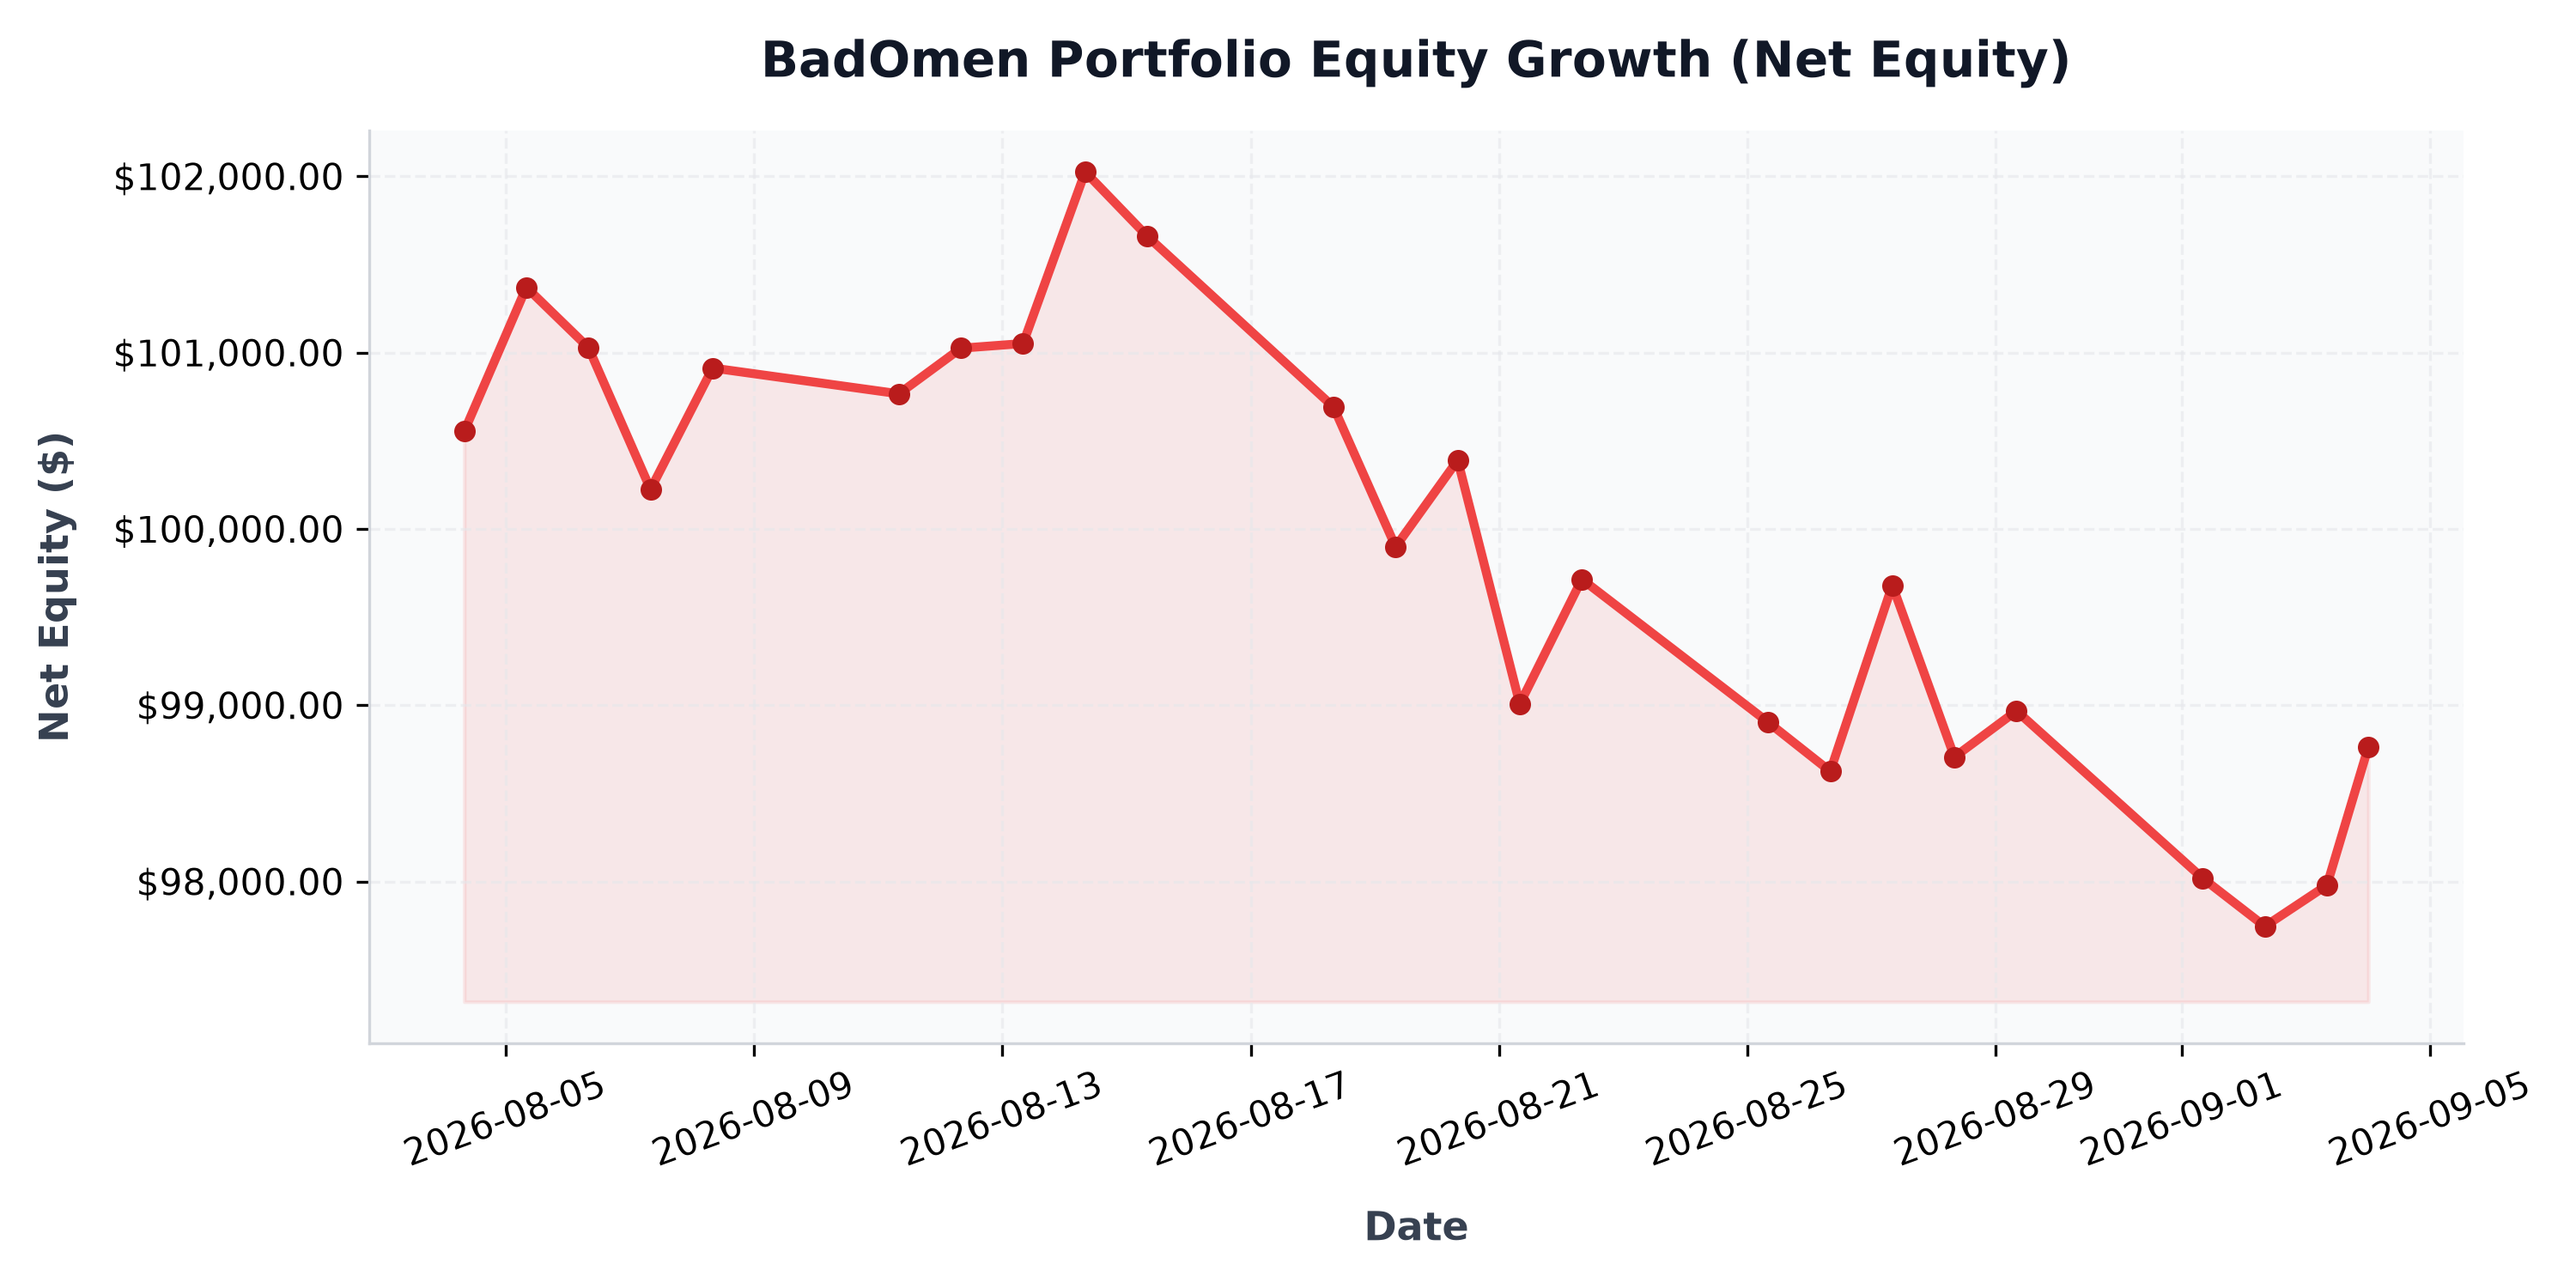
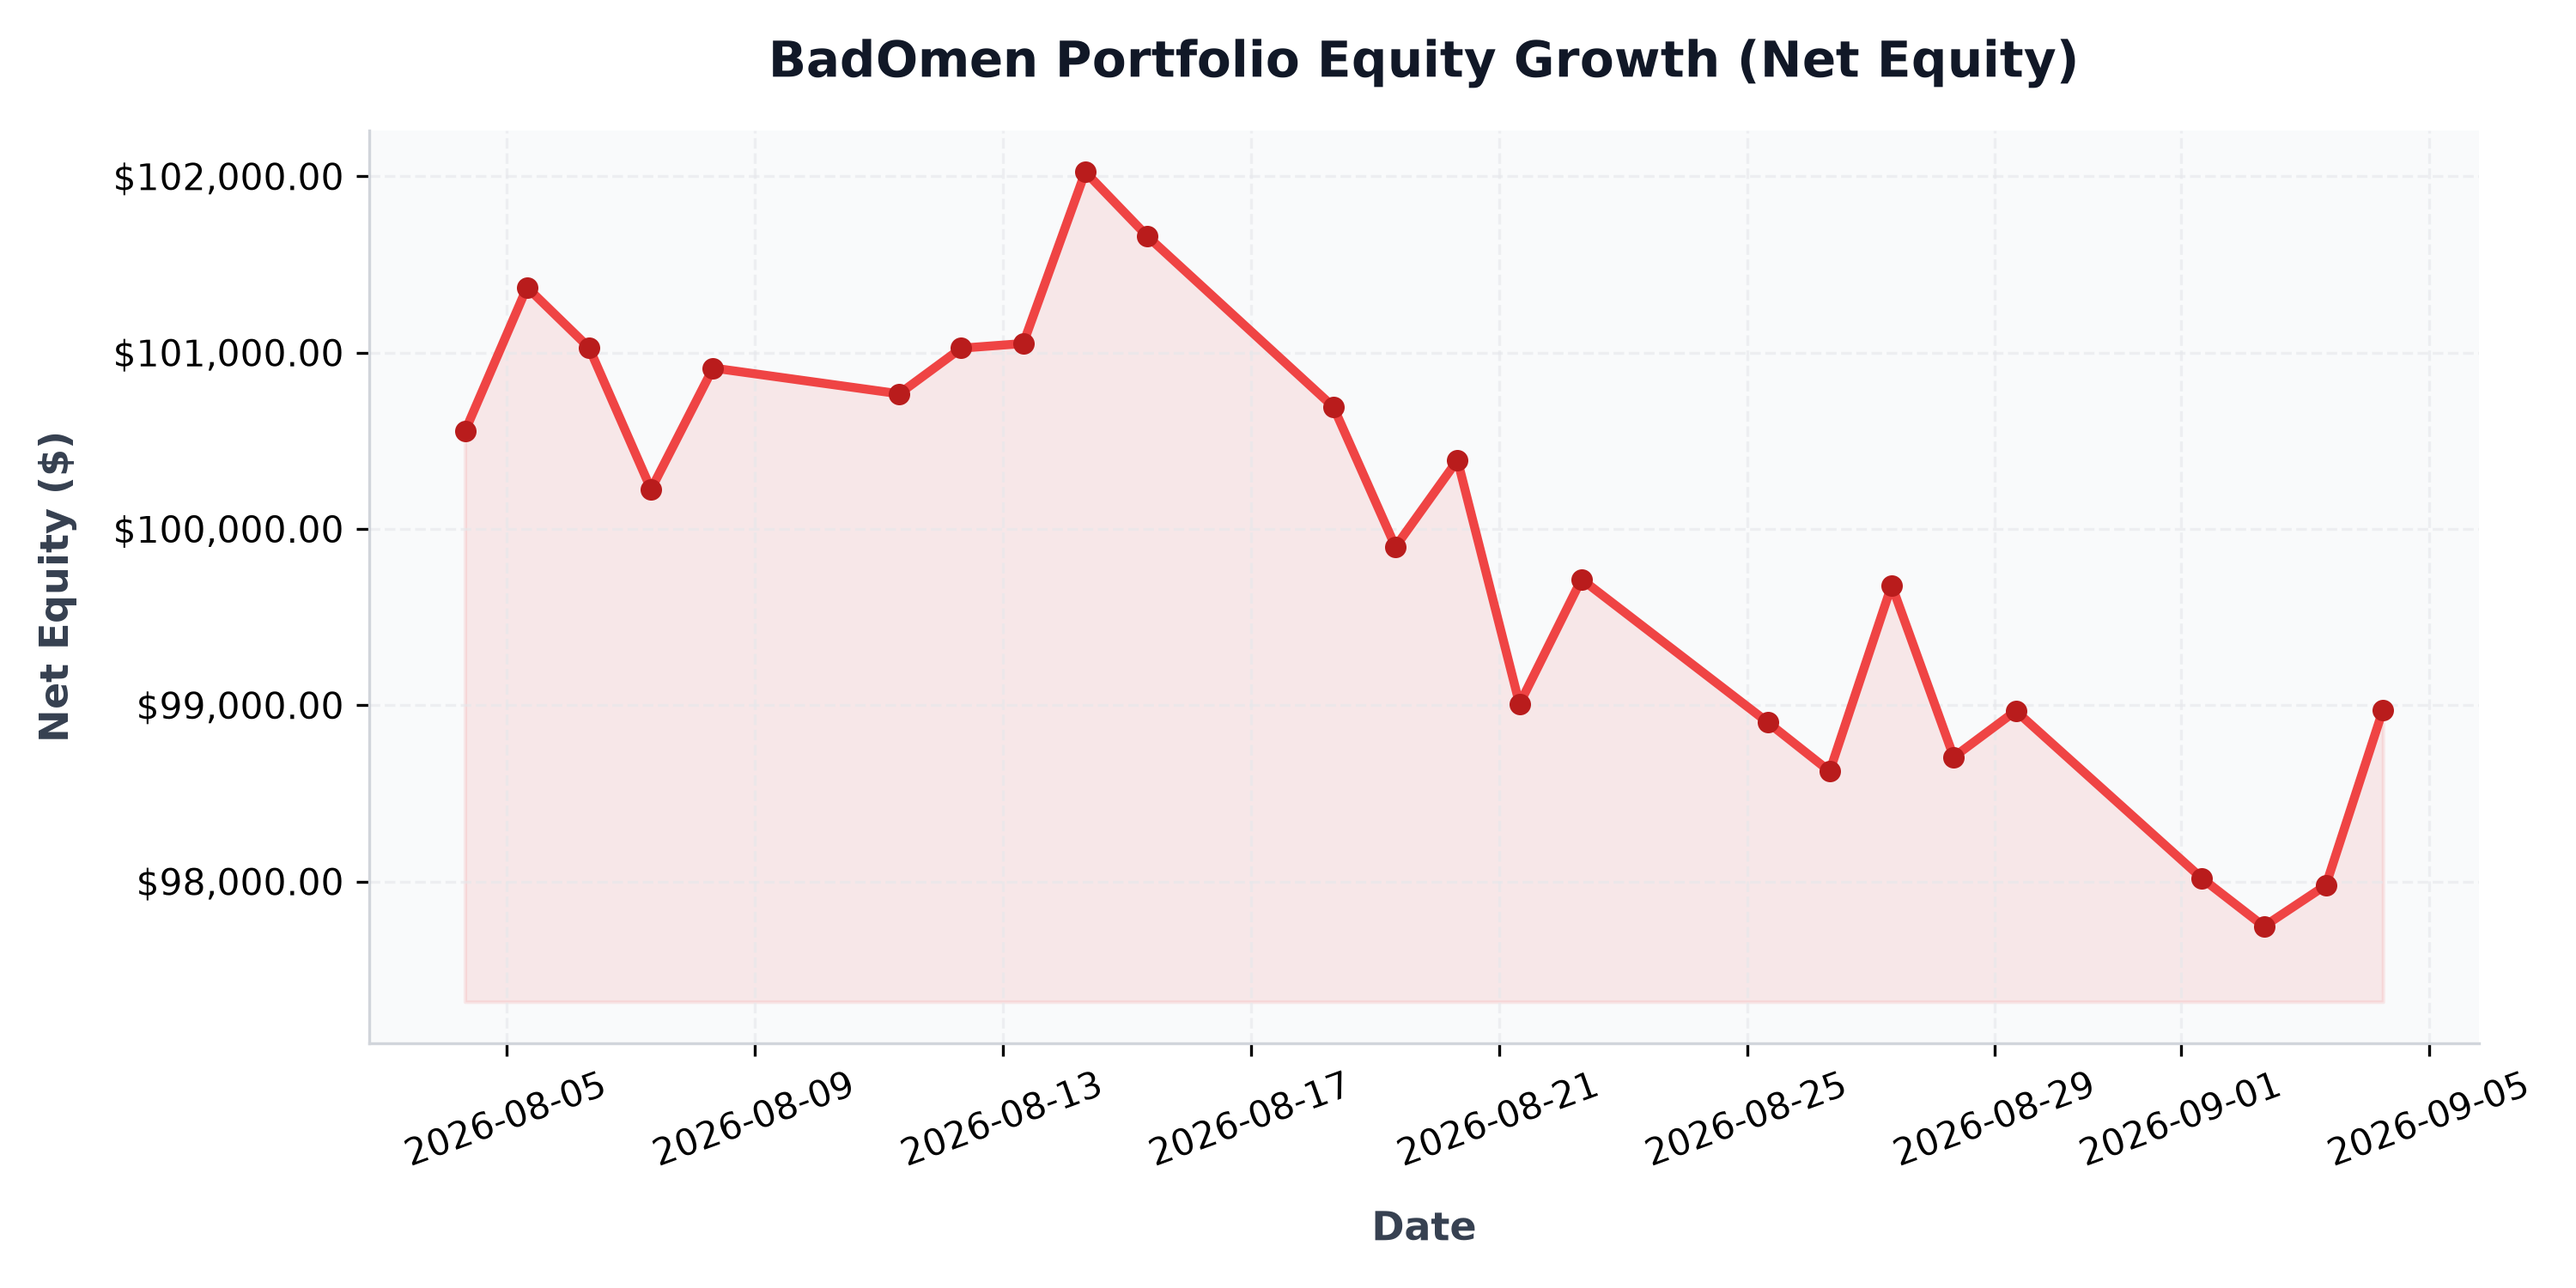
auto: daily portfolio status update - 2026-09-04 06:05:25

diff --git a/src/content/posts/portfolio-performance.md b/src/content/posts/portfolio-performance.md
@@ -1,6 +1,6 @@
 ---
 title: "BadOmen Algorithmic Portfolio Performance & PnL Report"
-pubDatetime: 2026-09-04T00:00:25.554381+08:00
+pubDatetime: 2026-09-04T06:05:25.241836+08:00
 description: "Live performance metrics, active holdings, and historic equity curve for the BadOmen automated paper trading portfolio."
 featured: true
 draft: false
@@ -16,11 +16,11 @@ Welcome to the live performance dashboard for **BadOmen**, our automated algorit
 ## 📊 Portfolio Summary
 | Performance Metric | Value | description |
 | :--- | :--- | :--- |
-| **Net Portfolio Equity** | **$98,763.40** | Total current liquidation value of cash and stock holdings |
-| **Total Unrealized P&L** | 🔴 **$-2,116.16** (-2.10%) | Total return of current open holdings |
+| **Net Portfolio Equity** | **$98,974.05** | Total current liquidation value of cash and stock holdings |
+| **Total Unrealized P&L** | 🔴 **$-1,903.00** (-1.89%) | Total return of current open holdings |
 | **Cash Balance** | $23,482.80 | Idle reserve currency available for limit orders |
-| **Buying Power** | $304,716.89 | Margin-backed buying power for entry allocations |
-| **Report Updated** | `2026-09-04 00:00:25 (SGT)` | Timestamp of daily execution and sync run |
+| **Buying Power** | $305,306.70 | Margin-backed buying power for entry allocations |
+| **Report Updated** | `2026-09-04 06:05:25 (SGT)` | Timestamp of daily execution and sync run |
 
 ## 📈 Net Equity Growth Curve
 The chart below illustrates the historical performance of the account starting from our baseline capital funding of $100,000.00.
@@ -35,36 +35,36 @@ The chart below illustrates the exposure of our currently held active positions 
 ## 💼 Current Position Holdings
 | Ticker | Industry | Shares Owned | Average Entry Cost | Current Price | Unrealized P&L | Return (%) |
 | :--- | :--- | :--- | :--- | :--- | :--- | :--- |
-| **AN** | Auto & Truck Dealerships | 5 | $188.51 | $209.09 | 🟢 +$102.89 | +10.92% |
-| **AVGO** | Semiconductors | 1 | $385.71 | $351.69 | 🔴 $-34.02 | -8.82% |
-| **BIRK** | Footwear & Accessories | 407 | $37.32 | $34.23 | 🔴 $-1,256.70 | -8.27% |
-| **BLBD** | Farm & Heavy Construction Machinery | 231 | $65.52 | $62.79 | 🔴 $-629.70 | -4.16% |
-| **BVN** | Other Precious Metals & Mining | 32 | $31.88 | $34.75 | 🟢 +$92.00 | +9.02% |
-| **CELH** | Beverages - Non-Alcoholic | 33 | $29.71 | $31.52 | 🟢 +$59.64 | +6.08% |
-| **CPRI** | Luxury Goods | 1042 | $14.55 | $12.84 | 🔴 $-1,788.91 | -11.80% |
-| **DUOL** | Software - Application | 14 | $131.04 | $156.79 | 🟢 +$360.44 | +19.65% |
-| **FIS** | Information Technology Services | 23 | $41.79 | $42.02 | 🟢 +$5.29 | +0.55% |
-| **GDDY** | Software - Infrastructure | 6 | $76.21 | $102.91 | 🟢 +$160.20 | +35.03% |
-| **GDS** | Information Technology Services | 30 | $32.77 | $30.97 | 🔴 $-54.00 | -5.49% |
-| **GGAL** | Banks - Regional | 17 | $56.04 | $44.90 | 🔴 $-189.37 | -19.88% |
-| **GOOGL** | Internet Content & Information | 3 | $319.44 | $342.53 | 🟢 +$69.28 | +7.23% |
-| **GPI** | Auto & Truck Dealerships | 3 | $316.15 | $281.71 | 🔴 $-103.32 | -10.89% |
-| **HUBS** | Software - Application | 8 | $221.18 | $258.24 | 🟢 +$296.47 | +16.75% |
-| **ITRI** | Scientific & Technical Instruments | 12 | $81.80 | $96.47 | 🟢 +$176.04 | +17.93% |
-| **KBR** | Engineering & Construction | 27 | $36.23 | $36.89 | 🟢 +$17.74 | +1.81% |
-| **META** | Internet Content & Information | 1 | $568.17 | $616.63 | 🟢 +$48.47 | +8.53% |
-| **NESR** | Oil & Gas Equipment & Services | 34 | $28.74 | $34.41 | 🟢 +$192.61 | +19.71% |
-| **NU** | Banks - Regional | 57 | $11.60 | $15.55 | 🟢 +$225.23 | +34.07% |
-| **ON** | Semiconductors | 10 | $90.45 | $73.69 | 🔴 $-167.64 | -18.53% |
-| **ORCL** | Software - Infrastructure | 5 | $181.95 | $153.44 | 🔴 $-142.55 | -15.67% |
-| **PATH** | Software - Infrastructure | 38 | $10.25 | $18.54 | 🟢 +$315.02 | +80.88% |
-| **PYPL** | Credit Services | 17 | $56.05 | $55.80 | 🔴 $-4.33 | -0.46% |
-| **QCOM** | Semiconductors | 15 | $193.68 | $168.35 | 🔴 $-380.02 | -13.08% |
-| **SMCI** | Computer Hardware | 22 | $29.25 | $37.41 | 🟢 +$179.41 | +27.88% |
-| **SRE** | Utilities - Diversified | 57 | $84.75 | $84.45 | 🔴 $-17.24 | -0.36% |
-| **T** | Telecom Services | 47 | $20.85 | $26.02 | 🟢 +$242.75 | +24.77% |
-| **WEN** | Restaurants | 257 | $8.02 | $7.89 | 🔴 $-33.08 | -1.60% |
-| **ZG** | Internet Content & Information | 31 | $31.35 | $35.91 | 🟢 +$141.26 | +14.53% |
+| **AN** | Auto & Truck Dealerships | 5 | $188.51 | $207.18 | 🟢 +$93.36 | +9.90% |
+| **AVGO** | Semiconductors | 1 | $385.71 | $356.60 | 🔴 $-29.11 | -7.55% |
+| **BIRK** | Footwear & Accessories | 407 | $37.32 | $33.65 | 🔴 $-1,492.76 | -9.83% |
+| **BLBD** | Farm & Heavy Construction Machinery | 231 | $65.52 | $63.66 | 🔴 $-428.73 | -2.83% |
+| **BVN** | Other Precious Metals & Mining | 32 | $31.88 | $34.77 | 🟢 +$92.64 | +9.08% |
+| **CELH** | Beverages - Non-Alcoholic | 33 | $29.71 | $31.73 | 🟢 +$66.53 | +6.78% |
+| **CPRI** | Luxury Goods | 1042 | $14.55 | $13.05 | 🔴 $-1,564.88 | -10.32% |
+| **DUOL** | Software - Application | 14 | $131.04 | $159.98 | 🟢 +$405.10 | +22.08% |
+| **FIS** | Information Technology Services | 23 | $41.79 | $42.28 | 🟢 +$11.27 | +1.17% |
+| **GDDY** | Software - Infrastructure | 6 | $76.21 | $103.63 | 🟢 +$164.52 | +35.98% |
+| **GDS** | Information Technology Services | 30 | $32.77 | $31.12 | 🔴 $-49.50 | -5.04% |
+| **GGAL** | Banks - Regional | 17 | $56.04 | $44.63 | 🔴 $-193.96 | -20.36% |
+| **GOOGL** | Internet Content & Information | 3 | $319.44 | $342.69 | 🟢 +$69.75 | +7.28% |
+| **GPI** | Auto & Truck Dealerships | 3 | $316.15 | $285.85 | 🔴 $-90.90 | -9.58% |
+| **HUBS** | Software - Application | 8 | $221.18 | $255.25 | 🟢 +$272.55 | +15.40% |
+| **ITRI** | Scientific & Technical Instruments | 12 | $81.80 | $95.77 | 🟢 +$167.64 | +17.08% |
+| **KBR** | Engineering & Construction | 27 | $36.23 | $37.34 | 🟢 +$29.89 | +3.06% |
+| **META** | Internet Content & Information | 1 | $568.17 | $611.32 | 🟢 +$43.15 | +7.60% |
+| **NESR** | Oil & Gas Equipment & Services | 34 | $28.74 | $34.70 | 🟢 +$202.64 | +20.74% |
+| **NU** | Banks - Regional | 57 | $11.60 | $15.65 | 🟢 +$230.93 | +34.93% |
+| **ON** | Semiconductors | 10 | $90.45 | $73.65 | 🔴 $-168.05 | -18.58% |
+| **ORCL** | Software - Infrastructure | 5 | $181.95 | $153.69 | 🔴 $-141.30 | -15.53% |
+| **PATH** | Software - Infrastructure | 38 | $10.25 | $16.57 | 🟢 +$240.33 | +61.70% |
+| **PYPL** | Credit Services | 17 | $56.05 | $56.64 | 🟢 +$10.03 | +1.05% |
+| **QCOM** | Semiconductors | 15 | $193.68 | $168.50 | 🔴 $-377.77 | -13.00% |
+| **SMCI** | Computer Hardware | 22 | $29.25 | $37.80 | 🟢 +$188.10 | +29.23% |
+| **SRE** | Utilities - Diversified | 57 | $84.75 | $84.57 | 🔴 $-10.40 | -0.21% |
+| **T** | Telecom Services | 47 | $20.85 | $26.17 | 🟢 +$250.15 | +25.53% |
+| **WEN** | Restaurants | 257 | $8.02 | $7.87 | 🔴 $-39.51 | -1.92% |
+| **ZG** | Internet Content & Information | 31 | $31.35 | $36.04 | 🟢 +$145.29 | +14.95% |
 
 ## 🔴 Recent Realized Trades
 | Ticker | Shares Sold | Entry Price | Exit Price | Strategy Trigger | Realized Return | Exit Date |
